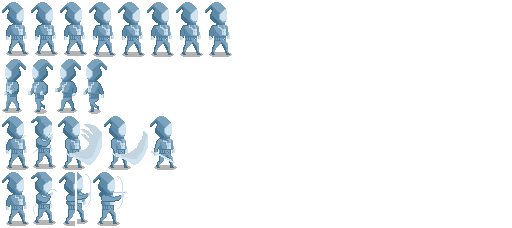
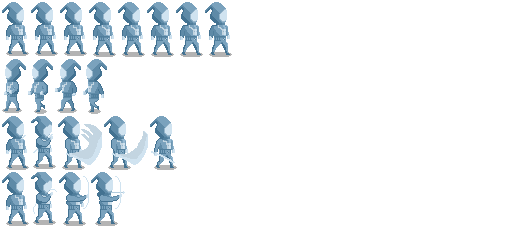
원거리 공격 프레임 수와 폭 수정

Changed region(s): [[0.125, 0.7368, 0.25, 1.0]]

diff --git a/LEC08/tools/rebuild_atlas.py b/LEC08/tools/rebuild_atlas.py
@@ -10,7 +10,7 @@ SPECS = [
     ('Idle', 'Idle.png', 64, 8, 8),
     ('Run', 'Walking_Right.png', 64, 4, 8),
     ('Melee', 'attack01.png', 80, 5, 10),
-    ('Ranged', 'ranged01.png', 64, 5, 8),
+    ('Ranged', 'ranged01.png', 80, 4, 8),
 ]
 
 

diff --git a/LEC08/assets/CREDITS.md b/LEC08/assets/CREDITS.md
@@ -9,4 +9,4 @@ Retrieved: 2026-09-30.
 Four original PNG strips are included in source/. The project trims transparent
 margins and repacks these pixels into an irregular atlas; no character art was
 redrawn. The actual Idle.png contains 8 cells (512 / 64), despite the page's
-6-frame description. Walking_Right: 4, attack01: 5, ranged01: 5.
+6-frame description. Walking_Right: 4, attack01: 5, ranged01: 4 (80-pixel cells; verified against the actual image).
